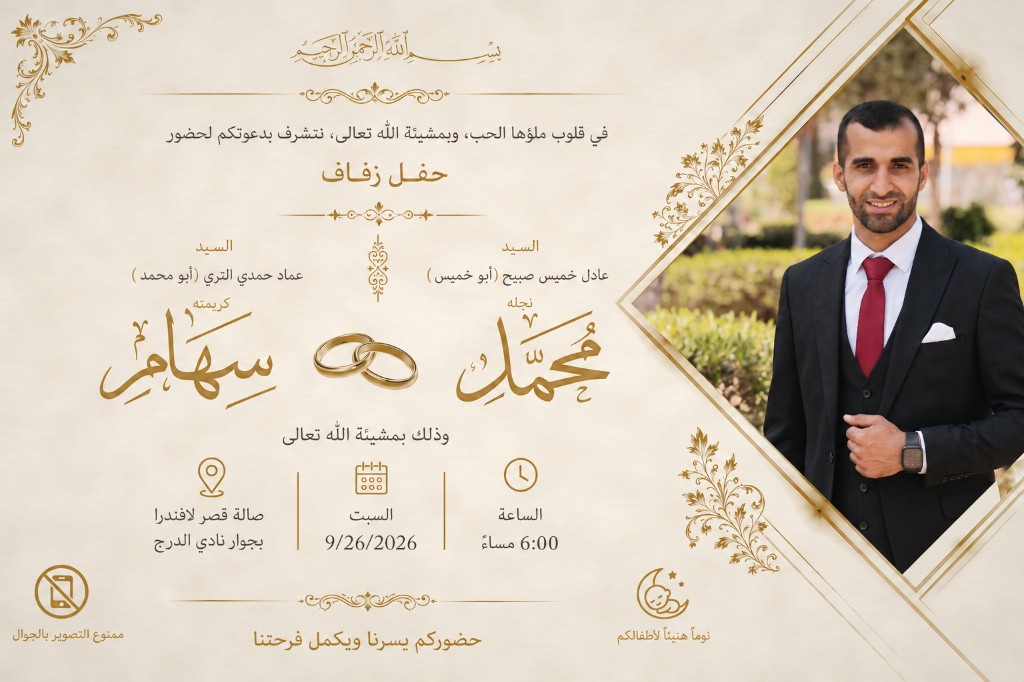
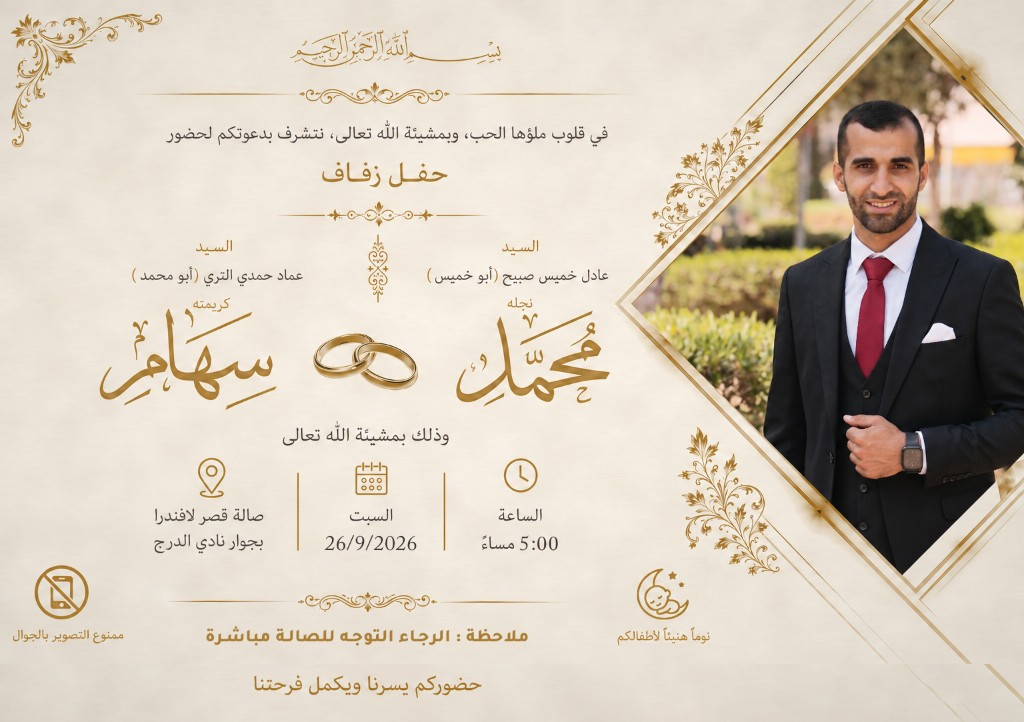
replace invitation card

diff --git a/src/features/landing/components/GroomGallerySection.tsx b/src/features/landing/components/GroomGallerySection.tsx
@@ -23,13 +23,14 @@ export function GroomGallerySection() {
   const [progressKey, setProgressKey] = useState(0);
   const [cycleKey, setCycleKey] = useState(0);
   const [slideDirection, setSlideDirection] = useState(1);
-  const [isInView, setIsInView] = useState(true);
+  const [isInView, setIsInView] = useState(false);
 
   const sectionRef = useRef<HTMLElement>(null);
   const storyTrackRef = useRef<HTMLDivElement>(null);
   const touchStartX = useRef<number | null>(null);
   const storyItemRefs = useRef<(HTMLButtonElement | null)[]>([]);
   const manualPauseTimer = useRef<number | null>(null);
+  const wasInViewRef = useRef(false);
 
   const clearManualPause = useCallback(() => {
     if (manualPauseTimer.current) {
@@ -108,6 +109,14 @@ export function GroomGallerySection() {
     observer.observe(section);
     return () => observer.disconnect();
   }, []);
+
+  // إعادة مزامنة شريط التقدّم مع المؤقت عند ظهور القسم
+  useEffect(() => {
+    if (isInView && !wasInViewRef.current) {
+      setProgressKey((key) => key + 1);
+    }
+    wasInViewRef.current = isInView;
+  }, [isInView]);
 
   // جدولة الصورة التالية — فقط والقسم ظاهر
   useEffect(() => {
@@ -222,7 +231,7 @@ export function GroomGallerySection() {
 
               <div
                 key={progressKey}
-                className={`groom-slider__progress${isPaused ? ' groom-slider__progress--paused' : ''}`}
+                className={`groom-slider__progress${isPaused || !isInView ? ' groom-slider__progress--paused' : ''}`}
                 style={{ ['--groom-slider-duration' as string]: `${AUTO_PLAY_MS}ms` }}
                 aria-hidden
               />
@@ -237,9 +246,11 @@ export function GroomGallerySection() {
                     key={index === activeIndex ? `active-${progressKey}` : `segment-${index}`}
                     className={[
                       'groom-slider__segment-fill',
-                      index < activeIndex && activeIndex > 0 ? 'groom-slider__segment-fill--done' : '',
-                      index === activeIndex ? 'groom-slider__segment-fill--active' : '',
-                      index === activeIndex && isPaused ? 'groom-slider__segment-fill--paused' : '',
+                      index < activeIndex ? 'groom-slider__segment-fill--done' : '',
+                      index === activeIndex && isInView ? 'groom-slider__segment-fill--active' : '',
+                      index === activeIndex && (isPaused || !isInView)
+                        ? 'groom-slider__segment-fill--paused'
+                        : '',
                     ]
                       .filter(Boolean)
                       .join(' ')}
@@ -270,7 +281,7 @@ export function GroomGallerySection() {
                 alt={`صورة ${groom.nickname} ${activeIndex + 1}`}
                 loading={activeIndex === 0 ? 'eager' : 'lazy'}
                 decoding="async"
-                animate={{ scale: isPaused ? 1.02 : 1.05 }}
+                animate={{ scale: isPaused || !isInView ? 1.02 : 1.05 }}
                 transition={{ duration: AUTO_PLAY_MS / 1000, ease: 'linear' }}
               />
               <div className="groom-slider__shade" aria-hidden />

diff --git a/src/config/wedding.config.ts b/src/config/wedding.config.ts
@@ -1,23 +1,21 @@
 export const weddingConfig = {
   groom: {
     fullName: 'محمد عادل صبيح',
+    firstName: 'محمد',
     nickname: 'أبو حسان',
     fatherName: 'السيد عادل خميس صبيح',
-  },
-  bride: {
-    fullName: 'سهام عماد التري',
-    fatherName: 'السيد عماد حمدي التري',
+    fatherNickname: 'أبو خميس',
   },
   event: {
     date: '26 سبتمبر 2026',
     day: 'السبت',
     dateShort: '26/9/2026',
-    time: '6:00 مساءً',
+    time: '5:00 مساءً',
     venue: 'صالة قصر لافندرا',
-    venueDetail: 'الصحابة - بداخل نادي الدرج',
-    venueDirectionNote: 'التوجه مباشرة الى الصالة',
+    venueDetail: 'بجوار نادي الدرج',
+    venueDirectionNote: 'الرجاء التوجه للصالة مباشرة',
     city: '—',
-    countdownISO: '2026-09-26T18:00:00',
+    countdownISO: '2026-09-26T17:00:00',
   },
   media: {
     invitation: '/assets/images/hero/invitation.png',
@@ -82,18 +80,22 @@ export const weddingConfig = {
   },
   copy: {
     heroInviteLead: 'دعوة لحضور حفل زفاف',
-    heroInviteName: 'الاستاذ محمد عادل صبيح',
+    heroInviteName: 'محمد عادل صبيح',
     heroInviteNickname: 'ابو حسان',
+    siteTitle: 'دعوة زفاف محمد صبيح (ابو حسان) - افراح آل صبيح & آل التري',
+    siteDescription: 'دعوة زفاف محمد عادل صبيح (ابو حسان) — 26 سبتمبر 2026',
     heroQuote: 'وَمِنْ آيَاتِهِ أَنْ خَلَقَ لَكُم مِّنْ أَنفُسِكُمْ أَزْوَاجًا لِّتَسْكُنُوا إِلَيْهَا',
     heroCta: 'ننتظركم بكل حب',
-    splashBismillah: 'بسم الله الرحمن الرحيم',
+    splashBismillah: 'بِسْمِ اللَّـهِ الرَّحْمَـٰنِ الرَّحِيمِ',
     splashSubtitle: 'دعوة زفاف',
-    splashGroomName: 'أ. محمد عادل صبيح',
+    splashGroomName: 'محمد عادل صبيح',
     splashGroomNickname: 'ابو حسان',
-    formalIntro: 'يتشرف آل صبيح و آل التري بدعوتكم لمشاركتنا فرحتنا لحفل زفاف..',
-    formalOutro: 'يتم الفرح بقدومكم.. ودامت بيوتكم عامرة بالأفراح',
-    footerQuote: 'بوجودكم يتم لنا الفرح والسرور.. والعاقبة لديكم بالمسرات',
-    noPhotosNote: 'يمنع التصوير بالجوال',
+    formalIntro:
+      'في قلوب ملؤها الحب، وبمشيئة الله تعالى، نتشرف بدعوتكم لحضور حفل زفاف',
+    formalOutro: 'حضوركم يسرنا ويكمل فرحتنا',
+    footerQuote: 'حضوركم يسرنا ويكمل فرحتنا',
+    noPhotosNote: 'ممنوع التصوير بالجوال',
+    childrenNote: 'نوماً هنيئاً لأطفالكم',
     engagementSubtitle: 'شكرا لكل من ترك بصمة واثر جميل',
     footerMadeBy: 'صنع بحب Eng. Mohammed E Alterri',
   },

diff --git a/src/features/landing/components/InvitationSection.tsx b/src/features/landing/components/InvitationSection.tsx
@@ -6,7 +6,7 @@ import { weddingConfig } from '@/config/wedding.config';
 const INVITATION_DOWNLOAD_NAME = 'wedding-invitation-abu-hassan.png';
 
 export function InvitationSection() {
-  const { media, groom, bride, event } = weddingConfig;
+  const { media, groom, event } = weddingConfig;
   const [isLightboxOpen, setIsLightboxOpen] = useState(false);
 
   const closeLightbox = useCallback(() => setIsLightboxOpen(false), []);
@@ -85,7 +85,7 @@ export function InvitationSection() {
         >
           <img
             src={media.invitation}
-            alt={`دعوة زفاف ${groom.fullName} و${bride.fullName}`}
+            alt={`دعوة زفاف ${groom.fullName} (${groom.nickname})`}
             className="invitation-section__image"
             loading="lazy"
           />
@@ -103,7 +103,7 @@ export function InvitationSection() {
         viewport={{ once: true }}
         transition={{ delay: 0.08 }}
       >
-        ملاحظة/ {event.venueDirectionNote}
+        ملاحظة: {event.venueDirectionNote}
       </motion.p>
 
       <motion.div
@@ -157,7 +157,7 @@ export function InvitationSection() {
 
               <img
                 src={media.invitation}
-                alt={`دعوة زفاف ${groom.fullName} و${bride.fullName}`}
+                alt={`دعوة زفاف ${groom.fullName} (${groom.nickname})`}
                 className="invitation-lightbox__image"
               />
 

diff --git a/src/features/landing/components/FormalTextSection.tsx b/src/features/landing/components/FormalTextSection.tsx
@@ -2,7 +2,7 @@ import { motion } from 'framer-motion';
 import { weddingConfig } from '@/config/wedding.config';
 
 export function FormalTextSection() {
-  const { groom, bride, copy } = weddingConfig;
+  const { groom, copy } = weddingConfig;
 
   return (
     <section className="section-pad formal-text" aria-label="نص الدعوة">
@@ -17,12 +17,16 @@ export function FormalTextSection() {
         <p className="formal-text__bismillah">{copy.splashBismillah}</p>
         <p className="formal-text__intro">{copy.formalIntro}</p>
 
+        <div className="formal-text__parents">
+          <p className="formal-text__parent-line">
+            {groom.fatherName} ({groom.fatherNickname}) — نجله{' '}
+            <span className="gold-text">{groom.firstName}</span>
+          </p>
+        </div>
+
         <div className="formal-text__names-block">
           <p className="formal-text__name gold-text">{groom.fullName}</p>
-          <p className="formal-text__ampersand gold-text" aria-hidden>
-            &
-          </p>
-          <p className="formal-text__name gold-text">{bride.fullName}</p>
+          <p className="formal-text__nickname gold-text">({groom.nickname})</p>
         </div>
 
         <p className="formal-text__outro">{copy.formalOutro}</p>

diff --git a/src/styles/landing.css b/src/styles/landing.css
@@ -411,6 +411,14 @@
   line-height: 1.4;
 }
 
+.hero__invite-ampersand {
+  margin: 0.1rem 0;
+  font-size: clamp(1.1rem, 3.8vw, 1.45rem);
+  font-weight: 800;
+  color: var(--color-gold);
+  line-height: 1;
+}
+
 .hero__eyebrow {
   margin: 0;
   font-size: clamp(1.15rem, 4.2vw, 1.65rem);
@@ -1220,6 +1228,19 @@
   margin: 0 0 1.25rem;
 }
 
+.formal-text__parents {
+  display: grid;
+  gap: 0.65rem;
+  margin: 0 0 1.35rem;
+}
+
+.formal-text__parent-line {
+  margin: 0;
+  color: var(--color-cream);
+  line-height: 1.85;
+  font-size: clamp(0.95rem, 2.6vw, 1.05rem);
+}
+
 .formal-text__names-block {
   margin: 0 0 1.25rem;
 }
@@ -1229,6 +1250,12 @@
   font-weight: 900;
   line-height: 1.35;
   margin: 0;
+}
+
+.formal-text__nickname {
+  margin: 0.35rem 0 0;
+  font-size: clamp(1.2rem, 3vw, 1.55rem);
+  font-weight: 700;
 }
 
 .formal-text__ampersand {
@@ -1907,6 +1934,13 @@
   background: rgba(255, 255, 255, 0.04);
   color: var(--color-text-muted);
   font-size: 0.8rem;
+}
+
+.footer__children-note {
+  margin: 0.85rem 0 0;
+  color: var(--color-text-muted);
+  font-size: 0.82rem;
+  font-weight: 600;
 }
 
 .footer__made-by-wrap {

diff --git a/index.html b/index.html
@@ -10,8 +10,12 @@
       href="https://fonts.googleapis.com/css2?family=Tajawal:wght@300;400;500;700;800&display=swap"
       rel="stylesheet"
     />
-    <meta name="description" content="فرح محمد عادل صبيح (أبو حسان) وسهام — 26 سبتمبر 2026" />
-    <title>فرح أبو حسان | محمد &amp; سهام</title>
+    <meta name="description" content="دعوة زفاف محمد عادل صبيح (ابو حسان) — 26 سبتمبر 2026" />
+    <meta property="og:title" content="دعوة زفاف محمد صبيح (ابو حسان) - افراح آل صبيح &amp; آل التري" />
+    <meta property="og:description" content="دعوة زفاف محمد عادل صبيح (ابو حسان) — 26 سبتمبر 2026" />
+    <meta property="og:type" content="website" />
+    <meta property="og:locale" content="ar" />
+    <title>دعوة زفاف محمد صبيح (ابو حسان) - افراح آل صبيح &amp; آل التري</title>
     <link rel="preload" href="/assets/audio/wedding-song.mp3" as="audio" />
   </head>
   <body>

diff --git a/src/features/landing/components/FooterSection.tsx b/src/features/landing/components/FooterSection.tsx
@@ -3,15 +3,12 @@ import { Link } from 'react-router-dom';
 import { weddingConfig } from '@/config/wedding.config';
 
 export function FooterSection() {
-  const { copy, groom, naqoot } = weddingConfig;
+  const { copy, naqoot } = weddingConfig;
 
   return (
     <footer className="footer">
       <Heart size={32} color="#c9a24d" className="footer__icon" aria-hidden />
       <p className="footer__quote">"{copy.footerQuote}"</p>
-      <p className="footer__credit">
-        {groom.nickname} — {groom.fullName}
-      </p>
 
       {naqoot.enabled && (
         <div className="footer__naqoot-row">
@@ -26,6 +23,8 @@ export function FooterSection() {
         <span>ملاحظة: {copy.noPhotosNote}</span>
         <Sparkles size={14} color="#c9a24d" aria-hidden />
       </div>
+
+      <p className="footer__children-note">{copy.childrenNote}</p>
 
       <div className="footer__made-by-wrap">
         <p className="footer__made-by">
